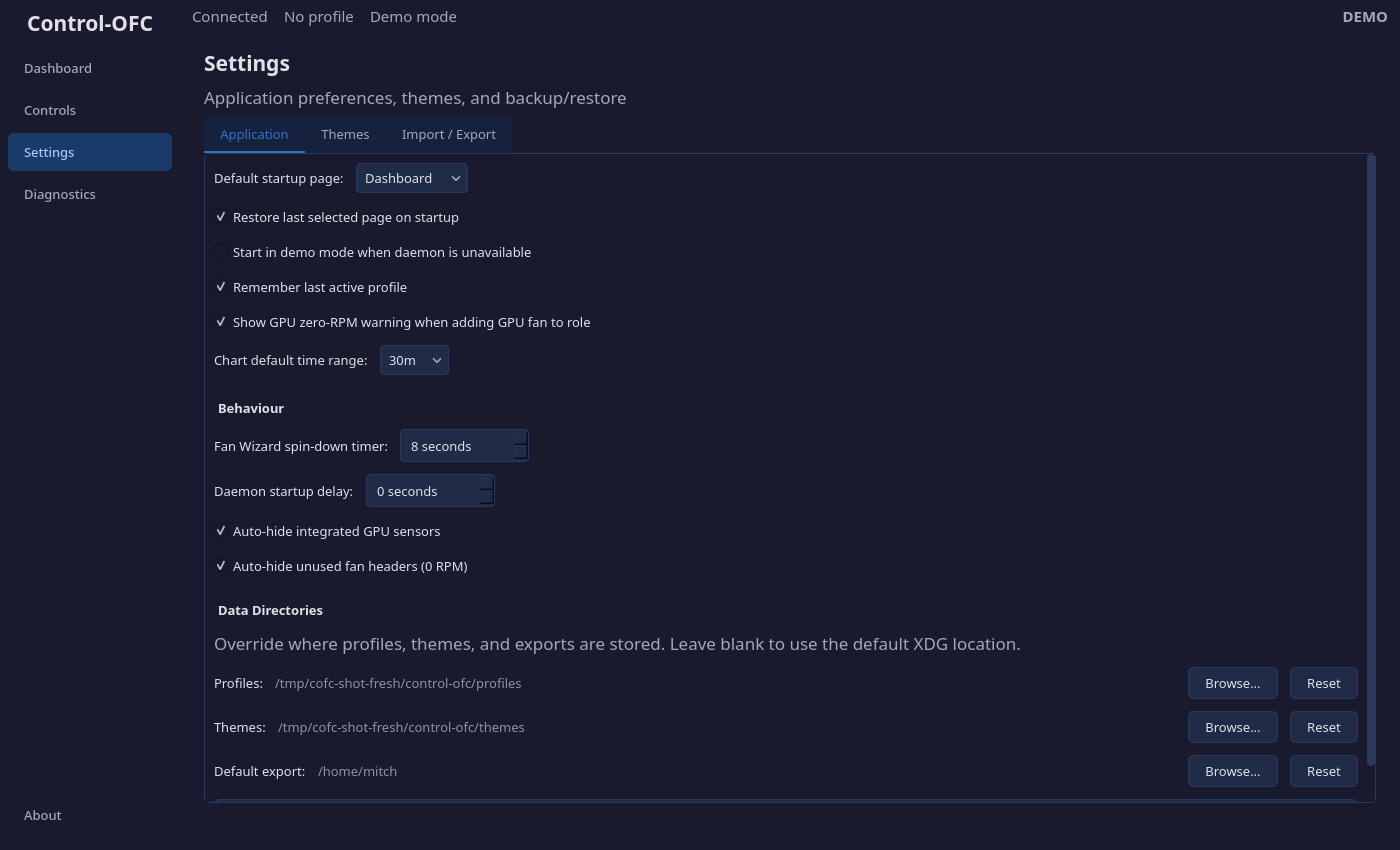
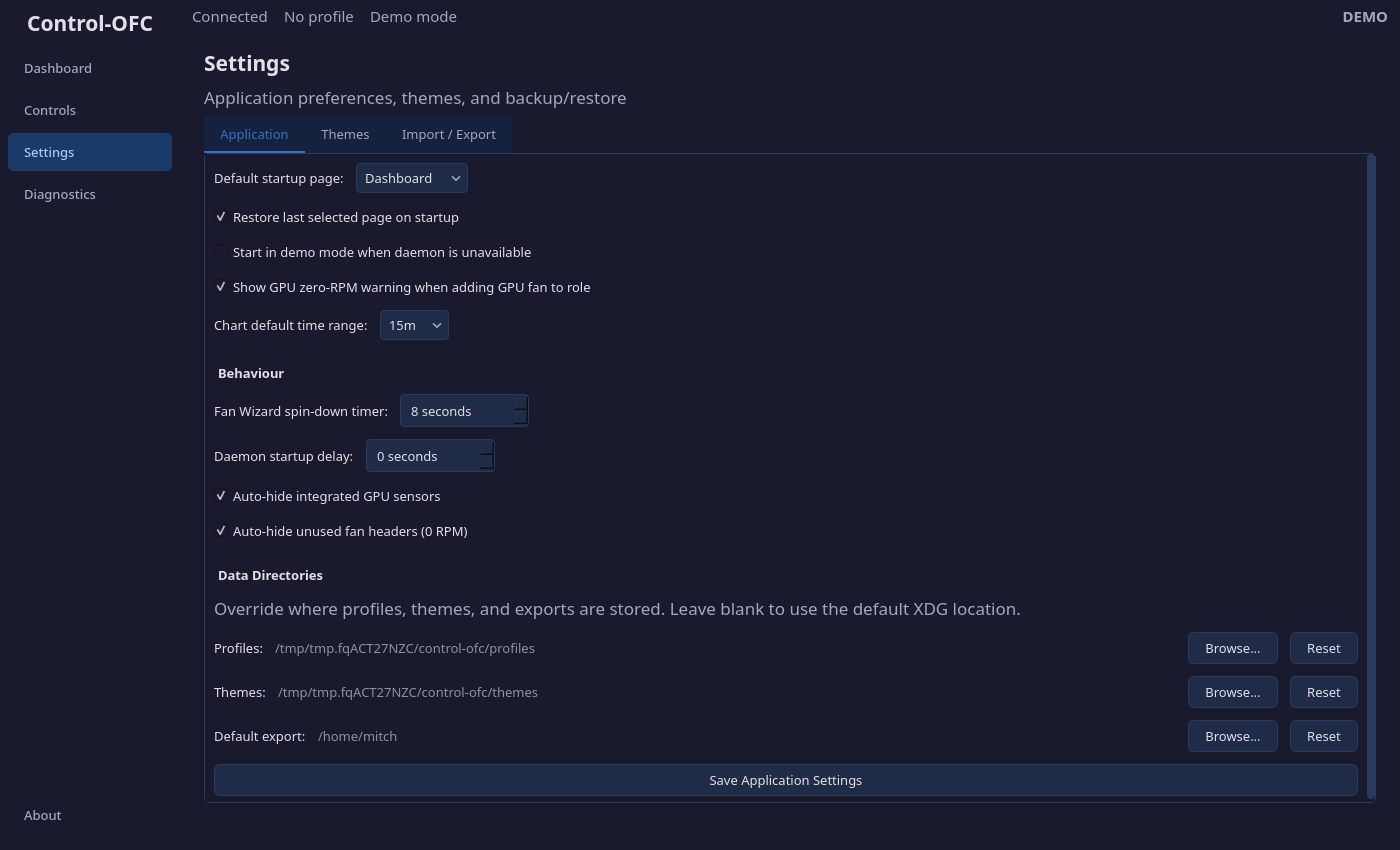
docs: brief v1.31.0 release notes + recapture Settings screenshot
Condense the [1.31.0] CHANGELOG section to brief release notes (CI extracts it
verbatim as the GitHub Release body) and re-capture 03_settings_application.png
for the removed 'Remember last active profile' checkbox and the corrected
chart-range label (now shows 15m).

Changed region(s): [[0.1536, 0.3365, 0.7371, 0.7647], [0.1536, 0.7341, 0.9829, 0.9482], [0.1536, 0.7953, 0.3686, 0.8259]]

diff --git a/CHANGELOG.md b/CHANGELOG.md
@@ -2,84 +2,38 @@
 
 ## [1.31.0] — 2026-06-06
 
+Settings hardening: the Application tab and Import/Export now do what they claim,
+and a corrupt or shared settings/theme file can no longer break the app.
+
 ### Fixed
-- **Fresh installs no longer start with every temperature series hidden.**
-  On first discovery the sensor panel built its rows before the dashboard
-  registered the series keys in the selection model, so `is_visible()` was
-  False and every row started unchecked — and the group-summary text update
-  fired `itemChanged`, whose group branch synced that unchecked state back
-  into the model as a persisted hide. Rows now default to checked unless a
-  series was *explicitly* hidden (`SeriesSelectionModel.is_hidden`), and the
-  cosmetic group-summary updates are signal-blocked so a `setText` can never
-  write check-states into the model again. Found while re-capturing manual
-  screenshots from a pristine config; regression-tested.
-- **"Chart default time range" now actually applies.** The Settings value
-  (default 15m) was persisted and editable but had no consumer — the
-  dashboard chart always opened at its hardcoded 5m. The dashboard now
-  applies `chart_default_range_index` to the chart at startup
-  (`TimelineChart.set_range_index`, out-of-range values ignored).
-  Regression-tested.
-- **Settings import can no longer brick the app.** A crafted or corrupt import
-  (e.g. a `window_geometry` of strings) used to be written straight to disk and
-  then crash `setGeometry` on every subsequent launch. `AppSettings.from_dict`
-  is now a validating trust boundary: it never raises, type-checks and clamps
-  every field, drops invalid `series_colors`, and falls back to defaults for
-  garbage — a bad file now degrades gracefully instead of locking you out (DEC-137).
-- **Malformed or hostile themes can no longer break the stylesheet.** Theme
-  colour tokens are validated as hex (`#RGB`/`#RGBA`/`#RRGGBB`/`#RRGGBBAA`) and
-  `base_font_size_pt` is clamped on both load and import. An on-disk theme with
-  a bad token loads with that token defaulted; a theme *import* containing any
-  invalid colour is skipped with a clear message (DEC-142).
-- **"Default startup page" is now honoured** when "restore last selected page"
-  is off — previously it always opened the dashboard (DEC-141).
-- **"Chart default time range" labels now match the chart.** The Settings
-  dropdown is built from the chart's own range list, so the label you pick is
-  the range the dashboard actually opens (the two lists had silently drifted,
-  e.g. picking "30m" opened 15m) (DEC-141).
-- **iGPU auto-hide applies live.** Toggling "auto-hide iGPU sensors" now takes
-  effect on the next poll instead of only after a restart (DEC-141).
-- **Importing settings no longer wipes local machine state.** Import now merges
-  onto your current settings (preserving window geometry and data-dir overrides)
-  and applies directory overrides and the daemon startup delay immediately,
-  matching a manual Save (DEC-140).
+- Settings import can no longer brick the app — `AppSettings.from_dict` now
+  validates and clamps every field instead of writing bad values (which crashed
+  `setGeometry` on the next launch) straight to disk (DEC-137).
+- Malformed or hostile themes no longer break the stylesheet: colour tokens are
+  validated as hex and the base font size is clamped, on load and import (DEC-142).
+- "Default startup page" is honoured when "restore last selected page" is off (DEC-141).
+- "Chart default time range" labels now match the chart and its 15m default
+  (the Settings list had drifted, e.g. "30m" opened 15m) (DEC-141).
+- "Auto-hide iGPU sensors" applies live instead of only after a restart (DEC-141).
+- Importing settings no longer wipes local window geometry / data-dir overrides;
+  imports merge and apply directory + startup-delay changes immediately (DEC-140).
+- Fresh installs no longer start with every temperature series hidden.
 
 ### Added
-- **"Start in demo mode when daemon is unavailable" now works.** At launch the
-  GUI probes the daemon (`GET /status`); if it is unreachable and the option is
-  enabled, the GUI starts in demo mode. A slow daemon (timeout) is treated as
-  present and never silently dropped to demo (DEC-139).
-- **Portable settings export.** Settings → Export now writes a shareable file —
-  preferences, fan aliases, and all profiles/themes — excluding machine-specific
-  state (window geometry, data-dir paths, sensor/card bindings, series colours,
-  dismissed warnings). The full snapshot remains available in the diagnostics
-  support bundle (DEC-140).
+- "Start in demo mode when daemon is unavailable" now works, via a launch-time
+  daemon probe (a slow daemon stays live, never silently dropped to demo) (DEC-139).
+- Portable settings export — shareable preferences/aliases/profiles/themes;
+  machine-specific state stays local (the full snapshot remains in the
+  diagnostics support bundle) (DEC-140).
 
 ### Removed
-- **"Remember last active profile" setting.** It controlled nothing — the daemon
-  owns active-profile persistence — so the dead toggle was removed. Older
-  settings files that still contain the key continue to load (DEC-138).
+- Dead "Remember last active profile" setting (the daemon owns active-profile
+  persistence); older settings files still load (DEC-138).
 
 ### Documentation
-- **2026-06-06 documentation & manual audit remediation.** README release
-  line corrected (was stuck at v1.25.0) and the dead `DECISIONS.md` link
-  removed; every published reference to gitignored local files
-  (`DECISIONS.md`, `scripts/`, `docs/audit/`) re-pointed at `CHANGELOG.md`;
-  hardware-troubleshooting's no-sensor failsafe corrected (40% safe floor,
-  not 100%) and the DEC-132 thermal stand-down documented for users;
-  `manual/controls.md` and `manual/fan-wizard.md` rewritten against the
-  v1.30 UI (Manage Profiles… menu, inline Manual override, Actions menus,
-  drag-resize/snap, real wizard flow incl. the 30% restore fallback);
-  Card size setting documented; dashboard manual matched to the shipped UI
-  (Apply button, Label/PWM% columns, double-click rename,
-  GUI-evaluates-curves); man page FILES (`app_settings.json`) and
-  ENVIRONMENT (XDG, not `OPENFAN_PROFILE`) corrected; CONTRIBUTING gates
-  now include `compileall`; spec-pack contradictions swept
-  (one-role-per-fan ×4, fixed-size cards, theme-editor deferral, AMD-only
-  GPU, demo data model) and per-file "Last updated" stamps replaced with a
-  CHANGELOG-pointing status line; all 16 manual screenshots re-captured on
-  the current UI from a pristine demo config with warmed-up history; stale
-  April-era root `screenshots/` orphans removed and the About dialog shot
-  wired into Getting Started.
+- Settings spec, API contract, and the user manual updated for the above, plus
+  the 2026-06-06 README/manual/man-page audit remediation (manual rewritten
+  against the shipped UI, screenshots re-captured, stale references corrected).
 
 ## [1.30.0] — 2026-06-06
 